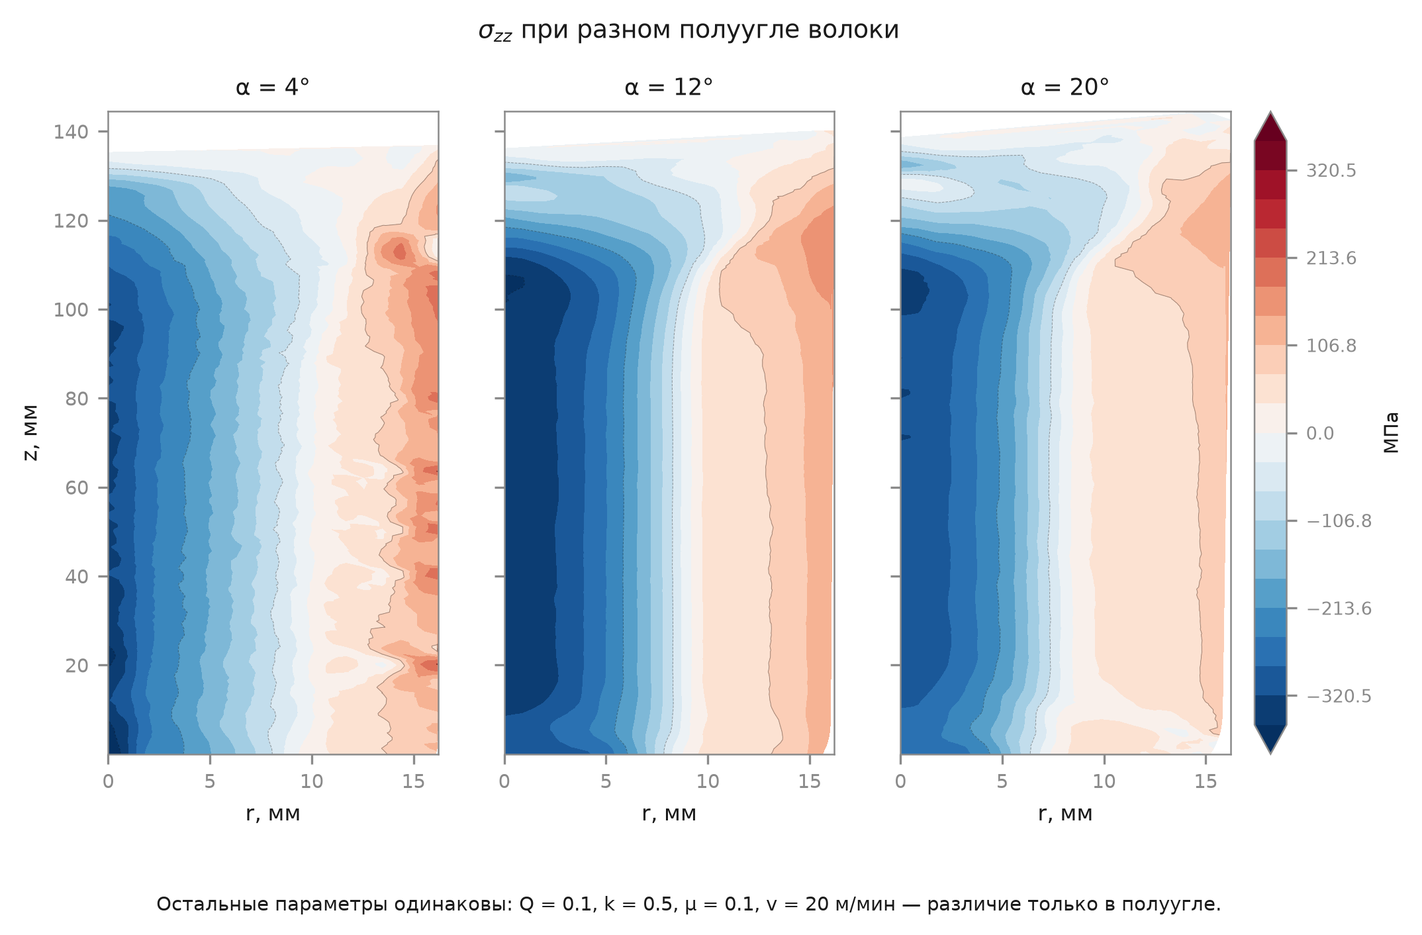
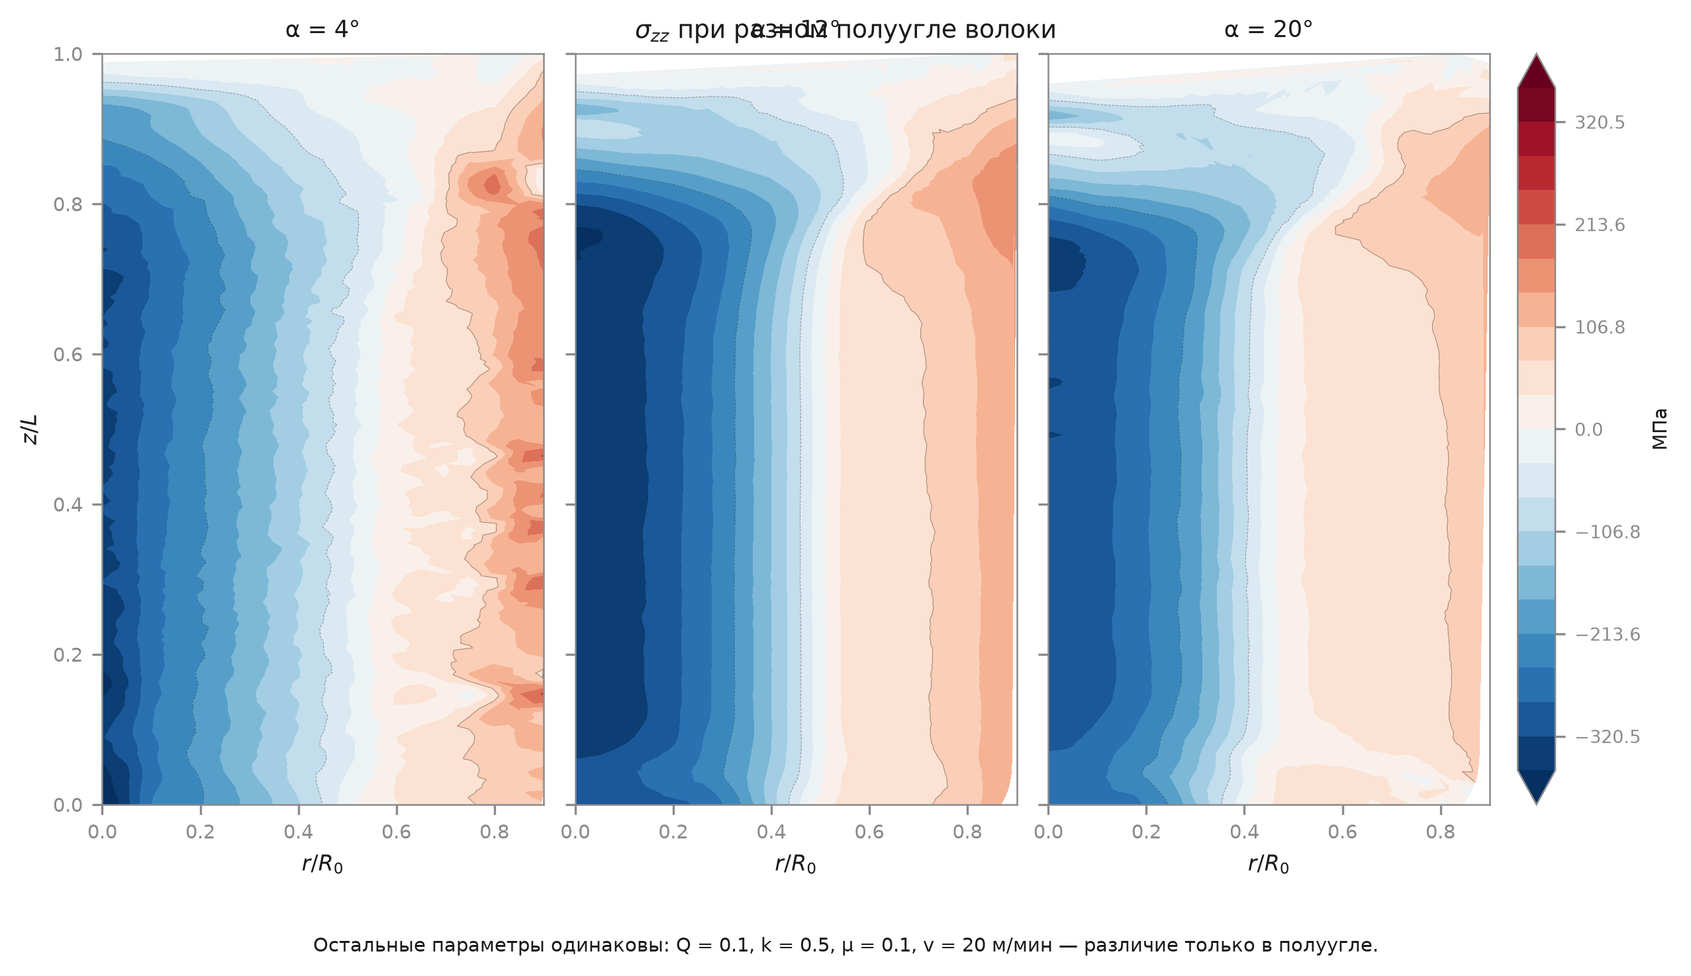
Контурные карты в безразмерных координатах
Все три режима contours.py переведены на безразмерные оси.

Модель против МКЭ: r/R — радиус, отнесённый к поверхности в ТОМ ЖЕ осевом
сечении (r/R = 1 — свободная поверхность при любом z), z/L — доля осевого
окна. Так карты сопоставимы между наборами с разным обжатием.

Сырые карты и серия по полууглу: r/R0 по радиусу ЗАГОТОВКИ, z/L по полной
длине модели. Здесь нормировать на текущую поверхность нельзя — она меняется
вдоль оси, в том и смысл рисунка. R0 берётся из имени детали волоки в шапке
отчёта (DIE_..._D0_36 -> 18 мм): по сетке его не определить, у сильных обжатий
недеформированной части в модели не остаётся вовсе. Добавлена
raw_probe.billet_radius.

Столбец невязок переформатирован, добавлен выбор --diff-mode:
  rel (по умолчанию) — невязка в % от масштаба своей компоненты, шкала ОБЩАЯ
      на весь столбец. Строки становятся сравнимы между собой: сразу видно,
      что tau_rz хуже нормальных компонент в разы.
  abs — в МПа, своя шкала у строки; структура видна лучше, но строки
      несравнимы, а панель всегда закрашена на полную насыщенность.
Заголовок панели: 'sigma_rr невязка, % от масштаба' вместо прежнего
'sigma_rr модель - МКЭ (12 % от поля)'.

Вёрстка сырых карт: constrained_layout и горизонтальные колорбары под
панелями — прежде подписи шкал налезали на соседнюю панель.

diff --git a/publication/experiments/contours.py b/publication/experiments/contours.py
@@ -37,7 +37,8 @@ from typing import Dict, Optional
 HERE = os.path.dirname(os.path.abspath(__file__))
 sys.path.insert(0, os.path.join(HERE, "..", "code"))
 
-from raw_probe import C_R, C_Z, axial_window, list_jobs, parse_job_name, read_rpt  # noqa: E402
+from raw_probe import (C_R, C_Z, axial_window, billet_radius, list_jobs,  # noqa: E402
+                       parse_job_name, read_rpt)
 
 PROC_COL = {"Q": 0, "k": 1, "alpha": 2, "mu": 3, "v": 4}
 
@@ -80,28 +81,39 @@ def _panel(ax, tri, vals, title, lim, cmap=DIVERGING, nlev=21):
 def fig_raw(path_rpt: str, out: str, job: str = ""):
     """Поля по узлам одного расчёта, весь осевой размах."""
     a = read_rpt(path_rpt)
-    r = a[:, C_R] * 1e3          # мм
-    z = a[:, C_Z] * 1e3
+    # безразмерные координаты: r/R₀ по радиусу ЗАГОТОВКИ (не по текущей
+    # поверхности — она меняется вдоль оси, в том и смысл этого рисунка),
+    # z/L по полной длине модели
+    R0 = billet_radius(path_rpt)
+    L = float(a[:, C_Z].max() - a[:, C_Z].min())
+    r = a[:, C_R] / R0
+    z = (a[:, C_Z] - a[:, C_Z].min()) / L
     lo, hi = axial_window(a[:, C_Z])
+    lo = (lo - a[:, C_Z].min()) / L
+    hi = (hi - a[:, C_Z].min()) / L
     tri = mtri.Triangulation(r, z)
 
-    fig, axes = plt.subplots(1, 4, figsize=(8.6, 3.6), sharey=True)
+    fig, axes = plt.subplots(1, 4, figsize=(9.4, 4.0), sharey=True,
+                             layout="constrained")
     for ax, (key, tex, col) in zip(axes, COMPS):
         v = a[:, col] / 1e6
         lim = _sym(v)
         cf = _panel(ax, tri, v, f"{tex}, МПа", lim)
-        ax.axhline(lo * 1e3, color=INK, lw=1.0, ls="--")
-        ax.axhline(hi * 1e3, color=INK, lw=1.0, ls="--")
-        ax.set_xlabel("r, мм")
-        cb = fig.colorbar(cf, ax=ax, fraction=0.055, pad=0.04)
-        cb.ax.tick_params(labelsize=6.5, color=MUTED)
-    axes[0].set_ylabel("z, мм")
-    fig.suptitle(f"Остаточные напряжения по узлам МКЭ · {job}", y=1.05, fontsize=9)
-    fig.text(0.5, -0.10,
-             "Пунктир — осевое окно 25–75 %: из этой полосы собирается обучающая "
-             "выборка (20 радиальных точек на набор).\n"
-             "Оси не в одном масштабе: радиальная растянута, иначе панель "
-             "вырождается в полоску (радиус ~16 мм при длине ~130 мм).",
+        ax.axhline(lo, color=INK, lw=1.0, ls="--")
+        ax.axhline(hi, color=INK, lw=1.0, ls="--")
+        ax.set_xlabel(r"$r/R_0$")
+        cb = fig.colorbar(cf, ax=ax, fraction=0.06, pad=0.03,
+                          location="bottom", orientation="horizontal")
+        cb.ax.tick_params(labelsize=6, color=MUTED)
+    axes[0].set_ylabel(r"$z/L$")
+    fig.suptitle(f"Остаточные напряжения по узлам МКЭ · {job}", fontsize=9)
+    fig.text(0.5, -0.02,
+             f"Пунктир — осевое окно 25–75 %: из этой полосы собирается обучающая "
+             f"выборка (20 радиальных точек на набор).\n"
+             f"Координаты безразмерные: $R_0$ = {R0 * 1e3:.1f} мм (заготовка), "
+             f"$L$ = {L * 1e3:.1f} мм (длина модели).\n"
+             f"Оси не в одном масштабе: радиальная растянута, иначе панель "
+             f"вырождается в полоску ($L/R_0$ = {L / R0:.1f}).",
              ha="center", va="top", fontsize=7, color=INK)
     fig.savefig(out)
     plt.close(fig)
@@ -109,9 +121,15 @@ def fig_raw(path_rpt: str, out: str, job: str = ""):
 
 
 def fig_model(npz: str, out: str, which: int = -1,
-              where: Optional[Dict[str, float]] = None):
+              where: Optional[Dict[str, float]] = None,
+              diff_mode: str = "rel"):
     """
     МКЭ против предсказания модели с z во входе, и разность.
+
+    Координаты БЕЗРАЗМЕРНЫЕ: r/R — радиус, отнесённый к радиусу поверхности в
+    том же осевом сечении (1 = свободная поверхность при любом z), z/L — доля
+    осевого окна (0 — вход, 1 — выход). Так карты сопоставимы между наборами
+    с разным обжатием, у которых радиус поверхности разный.
 
     which = -1 (по умолчанию) — набор с МЕДИАННОЙ ошибкой, а не первый
     попавшийся и не лучший: показывать надо типичное поведение.
@@ -120,10 +138,20 @@ def fig_model(npz: str, out: str, which: int = -1,
     внутри отобранного подмножества, так что набор остаётся типичным ДЛЯ
     ЭТОГО режима, а не для теста целиком.
 
+    diff_mode — как показывать третий столбец:
+      'rel' (по умолчанию) — (модель − МКЭ) / масштаб компоненты, в процентах.
+            Шкала ОБЩАЯ для всех трёх строк, поэтому строки сравнимы между
+            собой: сразу видно, по какой компоненте модель хуже.
+      'abs' — в МПа, шкала своя у каждой строки. Структура ошибки видна
+            лучше, но строки несравнимы, а панель всегда закрашена на полную
+            насыщенность независимо от того, 3 % это или 30 %.
+
     Один набор — это одна точка выборки, поэтому в подписи печатаются метрики
     ПО ВСЕМУ тесту: по одной панели о качестве модели судить нельзя, особенно
     для τ_rz, величина которого сильно меняется от режима к режиму.
     """
+    if diff_mode not in ("rel", "abs"):
+        raise ValueError(f"diff_mode: 'rel' или 'abs', получено {diff_mode!r}")
     d = np.load(npz, allow_pickle=True)
     y_true_all, y_pred_all = d["y_true"], d["y_pred"]
     err = np.sqrt(((y_pred_all - y_true_all) ** 2).mean(axis=(1, 2, 3)))
@@ -149,7 +177,7 @@ def fig_model(npz: str, out: str, which: int = -1,
         t, q = y_true_all[..., c].ravel(), y_pred_all[..., c].ravel()
         r2 = 1.0 - ((q - t) ** 2).sum() / ((t - t.mean()) ** 2).sum()
         part = f"{tex}: RMSE {np.sqrt(((q - t) ** 2).mean()):.1f}, $R^2$ {r2:.2f}"
-        if clean is not None:
+        if clean is not None and not clean.all():
             tc = y_true_all[clean][..., c].ravel()
             qc = y_pred_all[clean][..., c].ravel()
             r2c = 1.0 - ((qc - tc) ** 2).sum() / ((tc - tc.mean()) ** 2).sum()
@@ -158,59 +186,84 @@ def fig_model(npz: str, out: str, which: int = -1,
         summ.append(part)
 
     yt, yp = y_true_all[which], y_pred_all[which]
-    R = d["r_phys"][which] * 1e3
-    Z = np.repeat(d["z_phys"][which][:, None] * 1e3, yt.shape[1], axis=1)
+    # безразмерные координаты: r/R (1 = поверхность), z/L (0..1 по окну)
+    R = d["r"][which]
+    Z = np.repeat(d["z"][which][:, None], yt.shape[1], axis=1)
     proc = d["proc"][which]
+
+    # масштаб каждой компоненты и общий предел относительной шкалы
+    scales = [_sym(np.concatenate([yt[:, :, c].ravel(), yp[:, :, c].ravel()]))
+              for _, c in rows]
+    rel_lim = max(100.0 * _sym((yp[:, :, c] - yt[:, :, c]).ravel()) / sc
+                  for (_, c), sc in zip(rows, scales))
 
     fig, axes = plt.subplots(len(rows), 3, figsize=(7.6, 7.2),
                              layout="constrained")
+    cf_rel = None
     for i, (tex, c) in enumerate(rows):
         t, q = yt[:, :, c], yp[:, :, c]
-        lim = _sym(np.concatenate([t.ravel(), q.ravel()]))
-        dlim = _sym((q - t).ravel())
+        lim = scales[i]
+        if diff_mode == "rel":
+            dv, dlim = 100.0 * (q - t) / lim, rel_lim
+            dttl = "невязка, % от масштаба"
+        else:
+            dv, dlim = q - t, _sym((q - t).ravel())
+            dttl = f"невязка, МПа  ({100 * dlim / lim:.0f} % от масштаба)"
         cf_pair = None
-        # панель разности масштабируется по СЕБЕ, иначе структура не видна;
-        # поэтому её долю от поля пишем прямо в заголовок — иначе ошибка в
-        # 11 % закрашивается на полную насыщенность и читается как провал
-        diff_ttl = f"модель − МКЭ  ({100 * dlim / lim:.0f} % от поля)"
         for j, (v, ttl, L) in enumerate(((t, "МКЭ", lim),
                                          (q, "модель", lim),
-                                         (q - t, diff_ttl, dlim))):
+                                         (dv, dttl, dlim))):
             ax = axes[i, j]
             lev = np.linspace(-L, L, 21)
             cf = ax.contourf(R, Z, v, levels=lev, cmap=DIVERGING, extend="both")
             ax.contour(R, Z, v, levels=lev[::5], colors="k",
                        linewidths=0.25, alpha=0.35)
             ax.set_title(f"{tex}  {ttl}")
+            ax.set_xlim(0, 1); ax.set_ylim(0, 1)
+            ax.set_xticks([0, 0.5, 1.0]); ax.set_yticks([0, 0.5, 1.0])
             if j < 2:
                 cf_pair = cf
+            else:
+                cf_rel = cf
             if j > 0:
                 ax.tick_params(labelleft=False)
             else:
-                ax.set_ylabel("z, мм")
+                ax.set_ylabel(r"$z/L$")
             if i < len(rows) - 1:
                 ax.tick_params(labelbottom=False)
             else:
-                ax.set_xlabel("r, мм")
-        # одна шкала на пару МКЭ/модель — они в одних пределах, дублировать незачем
+                ax.set_xlabel(r"$r/R$")
+        # одна шкала на пару МКЭ/модель — они в одних пределах
         cb = fig.colorbar(cf_pair, ax=axes[i, :2], fraction=0.045, pad=0.02)
         cb.set_label("МПа", fontsize=7)
         cb.ax.tick_params(labelsize=6.5, color=MUTED)
-        cbd = fig.colorbar(cf, ax=axes[i, 2], fraction=0.09, pad=0.02)
-        cbd.set_label("МПа", fontsize=7)
+        if diff_mode == "abs":
+            cbd = fig.colorbar(cf, ax=axes[i, 2], fraction=0.09, pad=0.02)
+            cbd.set_label("МПа", fontsize=7)
+            cbd.ax.tick_params(labelsize=6.5, color=MUTED)
+    if diff_mode == "rel":
+        # ОДНА шкала на весь столбец невязок: строки становятся сравнимы
+        cbd = fig.colorbar(cf_rel, ax=axes[:, 2], fraction=0.055, pad=0.02)
+        cbd.set_label("% от масштаба компоненты", fontsize=7)
         cbd.ax.tick_params(labelsize=6.5, color=MUTED)
 
     fig.suptitle(f"Набор с медианной ошибкой:  Q = {proc[0]:g}, k = {proc[1]:g}, "
                  f"α = {proc[2]:g}°, μ = {proc[3]:g}, v = {proc[4]:g} м/мин",
                  fontsize=8.5)
-    note = ("Шкала МКЭ и модели общая; у разности СВОЯ, её доля от поля "
-            "указана в заголовке панели.\n"
-            f"По всему тесту (n = {len(y_true_all)}):  " + ";  ".join(summ) + ".")
-    if clean is not None:
+    note = (r"$r/R$ — радиус, отнесённый к поверхности в том же сечении "
+            r"($r/R = 1$ — свободная поверхность); $z/L$ — доля осевого окна."
+            "\n")
+    if diff_mode == "rel":
+        note += ("Невязка отнесена к масштабу своей компоненты (99.5-й "
+                 "перцентиль |поля|), шкала общая на столбец — строки сравнимы "
+                 "между собой.\n")
+    else:
+        note += ("Шкала МКЭ и модели общая; у невязки своя, её доля от "
+                 "масштаба указана в заголовке панели.\n")
+    note += f"По всему тесту (n = {len(y_true_all)}):  " + ";  ".join(summ) + "."
+    if clean is not None and not clean.all():
         note += (f"\n«Без конуса» — {int(clean.sum())} наборов после снятия "
-                 f"{int((~clean).sum())} с конусом волоки в окне (E-24): они "
-                 "несут 51 % всей квадратичной ошибки.")
-    note += "\nОси не в одном масштабе: радиальная растянута."
+                 f"{int((~clean).sum())} с конусом волоки в окне (E-24).")
     fig.text(0.5, -0.015, note, ha="center", va="top", fontsize=7, color=INK)
     fig.savefig(out)
     plt.close(fig)
@@ -233,18 +286,22 @@ def fig_alpha_series(root: str, out: str, comp: int = 12, tex: str = r"$\sigma_{
             for nm, p in jobs:
                 if parse_job_name(nm).get("alpha") == alpha:
                     want.append((alpha, nm, p)); break
-    fig, axes = plt.subplots(1, len(want), figsize=(2.6 * len(want), 4.2), sharey=True)
+    fig, axes = plt.subplots(1, len(want), figsize=(2.8 * len(want), 4.4),
+                             sharey=True, layout="constrained")
     axes = np.atleast_1d(axes)
     arrs = [read_rpt(p) for _, _, p in want]
     lim = max(_sym(a[:, comp] / 1e6) for a in arrs)
     others = []
-    for ax, (alpha, nm, _), a in zip(axes, want, arrs):
-        tri = mtri.Triangulation(a[:, C_R] * 1e3, a[:, C_Z] * 1e3)
+    for ax, (alpha, nm, pth), a in zip(axes, want, arrs):
+        R0 = billet_radius(pth)
+        L = float(a[:, C_Z].max() - a[:, C_Z].min())
+        tri = mtri.Triangulation(a[:, C_R] / R0,
+                                 (a[:, C_Z] - a[:, C_Z].min()) / L)
         pj = parse_job_name(nm)
         cf = _panel(ax, tri, a[:, comp] / 1e6, f"α = {alpha:g}°", lim)
-        ax.set_xlabel("r, мм")
+        ax.set_xlabel(r"$r/R_0$")
         others.append((pj.get("Q"), pj.get("k"), pj.get("mu_repo"), pj.get("v")))
-    axes[0].set_ylabel("z, мм")
+    axes[0].set_ylabel(r"$z/L$")
     same = len(set(others)) == 1
     o = others[0]
     fig.text(0.5, -0.06,
@@ -273,6 +330,10 @@ def main():
     ap.add_argument("--out", required=True)
     ap.add_argument("--which", type=int, default=-1,
                     help="индекс тестового набора; -1 = набор с медианной ошибкой")
+    ap.add_argument("--diff-mode", dest="diff_mode", default="rel",
+                    choices=["rel", "abs"],
+                    help="третий столбец: 'rel' — %% от масштаба, общая шкала "
+                         "на столбец; 'abs' — МПа, своя шкала у каждой строки")
     ap.add_argument("--where", default="",
                     help="ограничить режимом, например 'v=20' или 'v=40,alpha=8'")
     a = ap.parse_args()
@@ -284,7 +345,8 @@ def main():
         for part in filter(None, a.where.split(",")):
             k, v = part.split("=")
             where[k.strip()] = float(v)
-        print("создан", fig_model(a.npz, a.out, a.which, where or None))
+        print("создан", fig_model(a.npz, a.out, a.which, where or None,
+                                  a.diff_mode))
     else:
         print("создан", fig_alpha_series(a.root, a.out))
 

diff --git a/publication/code/raw_probe.py b/publication/code/raw_probe.py
@@ -134,6 +134,22 @@ def mu_from_token(token: str) -> float:
     return float(token[1:]) / 1000
 
 
+def billet_radius(path_rpt: str, default: float = 0.018) -> float:
+    """
+    Радиус заготовки R₀, м — из имени детали волоки в шапке отчёта.
+
+    Abaqus печатает регион вида `DIE_2A_16_D0_36-1.Region_1`, где `D0_36` —
+    диаметр заготовки в мм. Брать R₀ из сетки нельзя: у сильных обжатий
+    недеформированной части в модели не остаётся вовсе (при rd = 0.25 радиус
+    постоянен по всей длине), поэтому максимум по узлам даёт уже протянутый
+    радиус, а не исходный.
+    """
+    with open(path_rpt, "r", errors="ignore") as fh:
+        head = fh.read(8192)
+    m = re.search(r"DIE_\w*?D0_(\d+)", head)
+    return (int(m.group(1)) / 2.0) * 1e-3 if m else default
+
+
 # ─────────────────────── окно и радиальный профиль ──────────────────────
 
 def axial_window(z: np.ndarray, mode: str = "repo") -> Tuple[float, float]:
